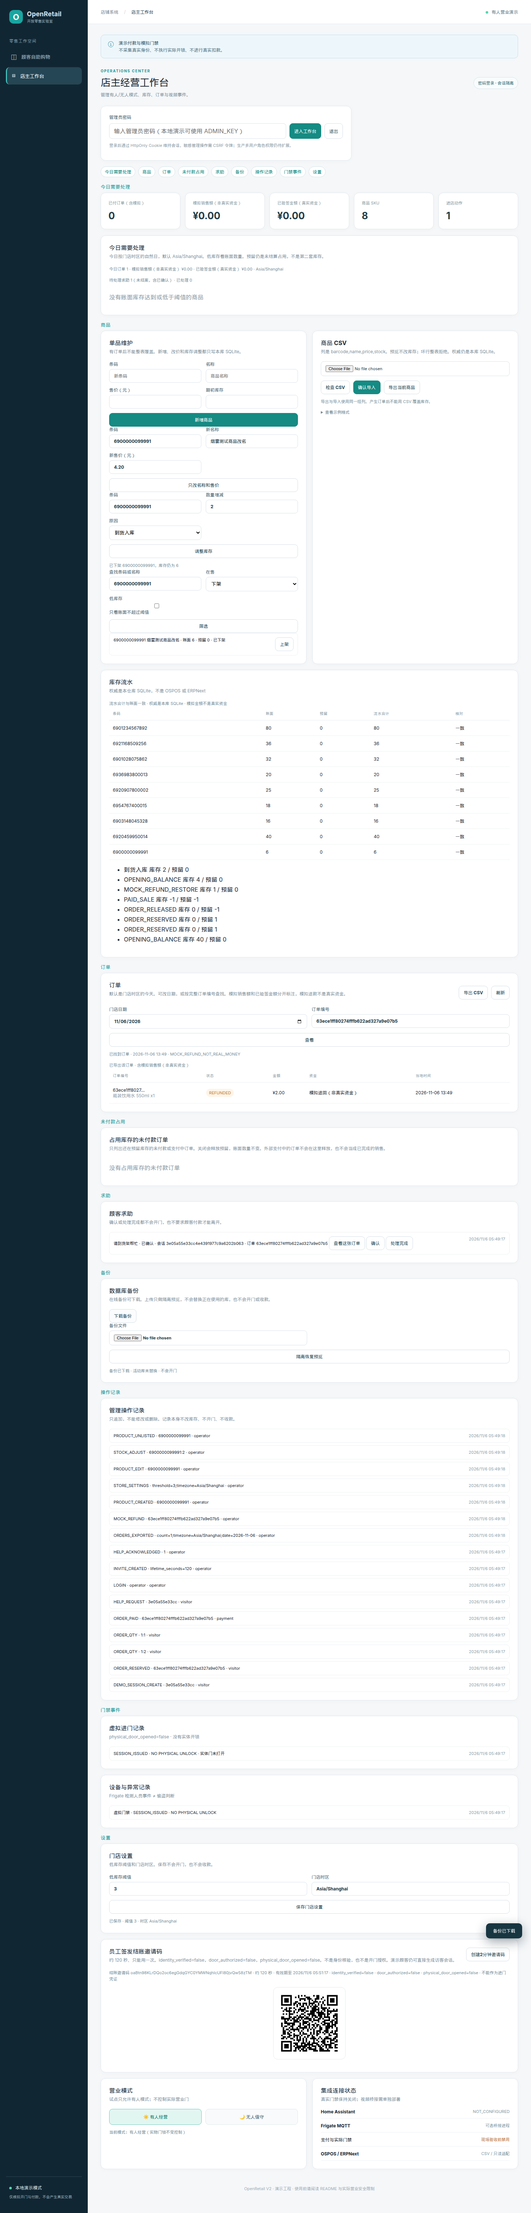
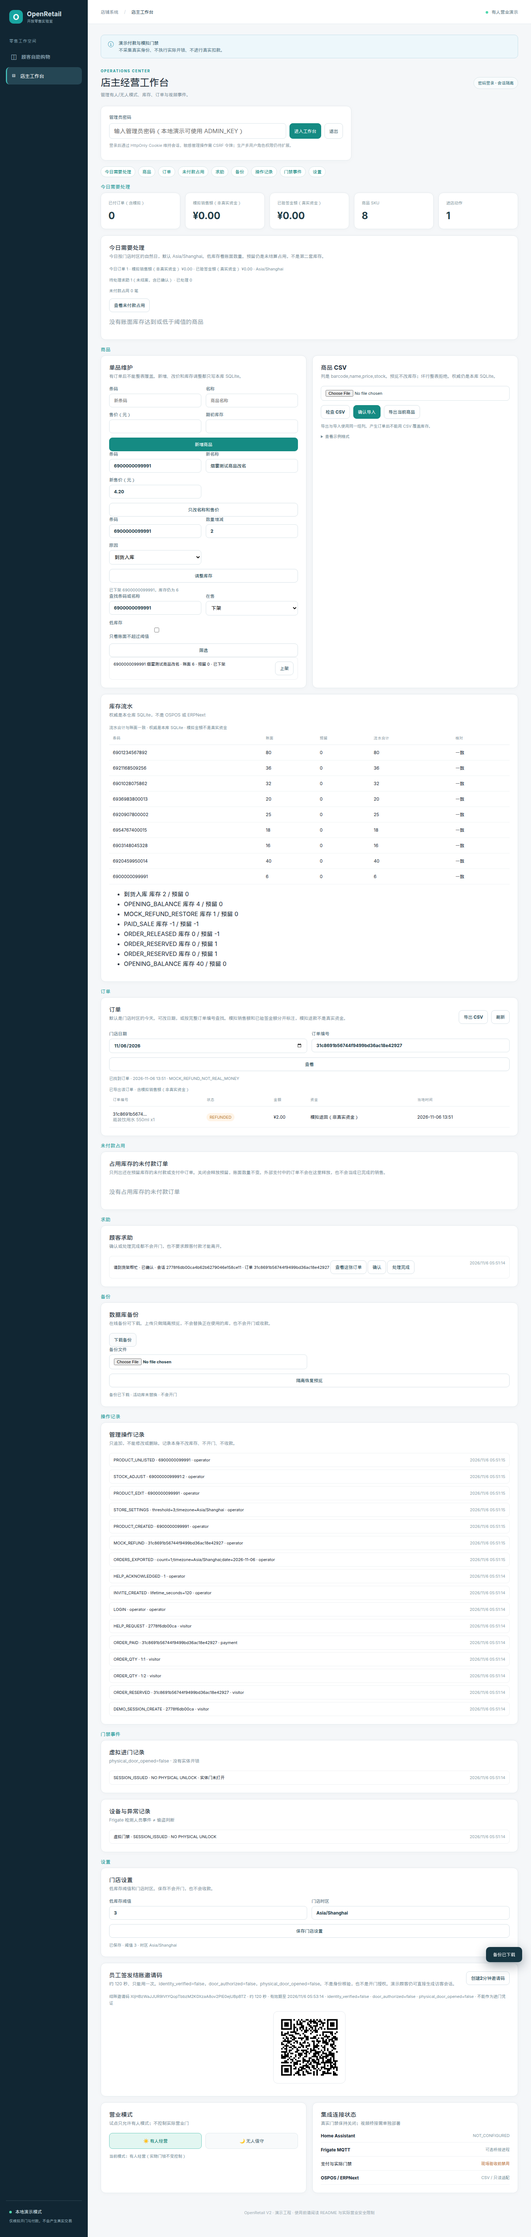
Show the unpaid holding count in today's summary.
The number uses the existing holding list, and the new control only scrolls to that section.

diff --git a/web/app.js b/web/app.js
@@ -51,7 +51,7 @@ async function resumeSavedSession(){if(!state.token)return;try{const status=awai
 async function createOrder(){if(!state.token)throw Error('先创建访客会话');const req={request_id:(crypto.randomUUID?.()||('demo-'+Date.now()+'-'+Math.random())),lines:[...state.cart].map(([product_id,quantity])=>({product_id,quantity}))};let r;try{r=await api('/api/orders',{method:'POST',body:req,guest:true})}catch(e){if((e.message||'').includes('已有待付款订单'))await refreshMine();throw e}rememberOrder(r);$('payment-qr').hidden=true;showPay(r);renderCart();await refreshMine();return r}
 async function confirmMock(){const r=await api('/api/payments/mock-confirm',{method:'POST',body:{order_id:state.orderId},guest:true});showPay(r);if(r.status==='PAID'){state.lastOrderId=r.id||state.orderId;state.cart.clear();state.orderId='';state.orderTotal=null;state.orderLines=null;$('cancel-order-btn').disabled=true;$('pay-btn').disabled=true;await loadProducts()}await refreshMine();return r}
 function fundLabel(order){if(order.status==='PAID'&&order.provider==='MOCK_NOT_REAL_MONEY')return '模拟销售额';if(Number(order.verified)===1)return '已验签真实资金';if(order.status==='REFUNDED'&&order.provider==='MOCK_NOT_REAL_MONEY')return '模拟退回';return '未收款'}
-async function adminRefresh(){if(!state.csrf)return;const [overview,orders,events,ledger,help,catalog,audit,holding]=await Promise.all([api('/api/admin/overview',{admin:true}),api(ordersQuery(),{admin:true}),api('/api/admin/events',{admin:true}),api('/api/admin/inventory-ledger',{admin:true}),api('/api/admin/help-requests',{admin:true}),api(catalogQuery(),{admin:true}),api('/api/admin/audit',{admin:true}),api('/api/admin/orders/holding',{admin:true})]);$('admin-body').hidden=false;$('m-orders').textContent=overview.paid_orders;$('m-sales').textContent=money(overview.simulated_revenue_cents);$('m-real').textContent=money(overview.verified_revenue_cents);$('today-summary').textContent='今日订单 '+overview.today_order_count+' · 模拟销售额（非真实资金） '+money(overview.today_simulated_revenue_cents)+' · 已验签金额（真实资金） '+money(overview.today_verified_revenue_cents)+' · '+overview.store_timezone;$('low-stock-threshold').value=overview.low_stock_threshold;$('store-timezone').value=overview.store_timezone;if(orders.local_date&&(!$('order-date').value||($('order-lookup').value||'').trim()))$('order-date').value=orders.local_date;const looked=($('order-lookup').value||'').trim();$('order-lookup-status').textContent=looked?(orders.orders&&orders.orders.length?('已找到订单 · '+orders.orders[0].local_time+' · '+(orders.orders[0].money_label==='MOCK_NOT_REAL_MONEY'?'模拟销售额（非真实资金）':(orders.orders[0].money_label||''))):'未找到订单'):('门店日期 '+(orders.local_date||'')+' · '+(orders.orders||[]).length+' 笔');$('admin-catalog').innerHTML=catalog.map(p=>`<div class="event"><span>${esc(p.barcode)} ${esc(p.name)} · 账面 ${p.stock} · 预留 ${p.reserved_stock} · ${p.active?'在售':'已下架'}</span><button class="btn secondary" type="button" data-listing-id="${p.id}" data-listing-barcode="${esc(p.barcode)}" data-listing-active="${p.active?0:1}">${p.active?'下架':'上架'}</button></div>`).join('')||'<p class="muted">没有商品</p>';$('audit-list').innerHTML=(audit.events||[]).map(e=>`<div class="event"><span>${esc(e.action)} · ${esc(e.detail)} · ${esc(e.actor)}</span><time>${time(e.created_at)}</time></div>`).join('')||'<p class="muted">没有操作记录</p>';$('help-attention').textContent='待处理求助 '+overview.help_needs_attention+'（未结案，含已确认） · 已处理 '+overview.help_resolved;$('low-stock-list').innerHTML=(overview.low_stock||[]).map(p=>`<div class="event"><span>${esc(p.barcode)} ${esc(p.name)} · 账面 ${p.stock} · 预留 ${p.reserved_stock} · 可售 ${p.available_stock}</span><button class="btn secondary" type="button" data-find-product="${esc(p.barcode)}">在商品里查找</button></div>`).join('')||'<p class="muted">没有账面库存达到或低于阈值的商品</p>';$('m-products').textContent=overview.products;$('m-entries').textContent=overview.door_events;$('mode-info').textContent='当前模式：'+(overview.mode==='UNATTENDED'?'无人值守':'有人经营')+'（实物门锁不受控制）';$('ha-state').textContent=overview.home_assistant.status;$('mode-staffed').classList.toggle('selected',overview.mode==='STAFFED');$('mode-unattended').classList.toggle('selected',overview.mode==='UNATTENDED');const todayOrders=orders.orders||[];$('order-table').innerHTML=todayOrders.map(o=>{const refund=o.status==='PAID'&&o.provider==='MOCK_NOT_REAL_MONEY'&&Number(o.verified)!==1?`<button class="btn secondary" type="button" data-mock-refund="${esc(o.id)}">模拟退款</button>`:'';const label=o.money_label==='MOCK_NOT_REAL_MONEY'?'模拟销售额（非真实资金）':o.money_label==='VERIFIED_REAL_MONEY'?'已验签金额（真实资金）':o.money_label==='MOCK_REFUND_NOT_REAL_MONEY'?'模拟退回（非真实资金）':fundLabel(o);return `<tr><td title="${esc(o.id)}">${esc(o.id.slice(0,12))}…<div class="muted">${esc(o.items||'')}</div></td><td><span class="status ${o.status==='PAID'?'paid':''}">${esc(o.status)}</span></td><td>${money(o.total_cents)}</td><td>${esc(label)}</td><td>${esc(o.local_time||'')}</td><td>${refund}</td></tr>`}).join('')||'<tr><td colspan="6">这一天没有订单</td></tr>';$('holding-list').innerHTML=(holding.orders||[]).map(o=>{const action=o.closable?`<button class="btn secondary" type="button" data-close-order="${esc(o.id)}">释放预留</button>`:`<span>${esc(o.note||'不能在这里释放')}</span>`;return `<div class="event"><span>${esc(o.id.slice(0,12))}… · ${esc(o.local_time||'')} · ${money(o.total_cents)} · ${esc(o.status)} · ${esc(o.items||'')} · 未付款 · 非真实资金${o.expires_local?' · 预留至 '+esc(o.expires_local):''}</span>${action}</div>`}).join('')||'<p class="muted">没有占用库存的未付款订单</p>';$('ledger-balance').textContent=(ledger.balanced?'流水合计与账面一致':'流水与账面不一致，需要人工核对')+' · 权威是本库 SQLite · 模拟金额不是真实资金';$('ledger-table').innerHTML=ledger.products.map(p=>`<tr><td>${esc(p.barcode)}</td><td>${p.stock}</td><td>${p.reserved_stock}</td><td>${p.ledger_stock}</td><td>${p.balanced?'一致':'不一致'}</td></tr>`).join('')||'<tr><td colspan="5">没有商品</td></tr>';$('ledger-moves').innerHTML=ledger.movements.slice(0,8).map(m=>`<li>${esc(m.reason)} 库存 ${m.stock_delta} / 预留 ${m.reserved_delta}</li>`).join('');const helpLabel={OPEN:'待处理',ACKNOWLEDGED:'已确认',RESOLVED:'已处理'};$('help-list').innerHTML=(help.requests||[]).map(h=>{const buttons=h.status==='RESOLVED'?'':`<button class="btn secondary" type="button" data-help-id="${esc(h.id)}" data-help-status="ACKNOWLEDGED">确认</button> <button class="btn secondary" type="button" data-help-id="${esc(h.id)}" data-help-status="RESOLVED">处理完成</button>`;const find=h.order_id?`<button class="btn secondary" type="button" data-find-order="${esc(h.order_id)}">查看这张订单</button>`:'';return `<div class="event"><span>${esc(h.message)} · ${esc(helpLabel[h.status]||h.status)} · 会话 ${esc(h.session_id||'无')} · 订单 ${esc(h.order_id||'无')} ${find} ${buttons}</span><time>${time(h.created_at)}</time></div>`}).join('')||'<p class="muted">没有求助</p>';$('door-lock-note').textContent=events.physical_door_opened===false?'physical_door_opened=false · 没有实体开锁':'门状态异常';$('door-event-list').innerHTML=(events.door||[]).map(e=>`<div class="event"><span>${esc(e.result)} · ${esc(e.detail)} · 实体门未打开</span><time>${time(e.created_at)}</time></div>`).join('')||'<p class="muted">没有虚拟进门记录</p>';const incident=events.frigate.map(e=>({name:'Frigate 人员事件 · '+e.camera+' · '+e.event_type,t:e.created_at})),doors=events.door.map(e=>({name:'虚拟门禁 · '+e.result+' · '+e.detail,t:e.created_at}));$('event-list').innerHTML=[...incident,...doors].sort((a,b)=>b.t-a.t).slice(0,15).map(e=>`<div class="event"><span>${esc(e.name)}</span><time>${time(e.t)}</time></div>`).join('')||'<p class="muted">暂无设备事件</p>'}
+async function adminRefresh(){if(!state.csrf)return;const [overview,orders,events,ledger,help,catalog,audit,holding]=await Promise.all([api('/api/admin/overview',{admin:true}),api(ordersQuery(),{admin:true}),api('/api/admin/events',{admin:true}),api('/api/admin/inventory-ledger',{admin:true}),api('/api/admin/help-requests',{admin:true}),api(catalogQuery(),{admin:true}),api('/api/admin/audit',{admin:true}),api('/api/admin/orders/holding',{admin:true})]);$('admin-body').hidden=false;$('m-orders').textContent=overview.paid_orders;$('m-sales').textContent=money(overview.simulated_revenue_cents);$('m-real').textContent=money(overview.verified_revenue_cents);$('today-summary').textContent='今日订单 '+overview.today_order_count+' · 模拟销售额（非真实资金） '+money(overview.today_simulated_revenue_cents)+' · 已验签金额（真实资金） '+money(overview.today_verified_revenue_cents)+' · '+overview.store_timezone;$('low-stock-threshold').value=overview.low_stock_threshold;$('store-timezone').value=overview.store_timezone;if(orders.local_date&&(!$('order-date').value||($('order-lookup').value||'').trim()))$('order-date').value=orders.local_date;const looked=($('order-lookup').value||'').trim();$('order-lookup-status').textContent=looked?(orders.orders&&orders.orders.length?('已找到订单 · '+orders.orders[0].local_time+' · '+(orders.orders[0].money_label==='MOCK_NOT_REAL_MONEY'?'模拟销售额（非真实资金）':(orders.orders[0].money_label||''))):'未找到订单'):('门店日期 '+(orders.local_date||'')+' · '+(orders.orders||[]).length+' 笔');$('admin-catalog').innerHTML=catalog.map(p=>`<div class="event"><span>${esc(p.barcode)} ${esc(p.name)} · 账面 ${p.stock} · 预留 ${p.reserved_stock} · ${p.active?'在售':'已下架'}</span><button class="btn secondary" type="button" data-listing-id="${p.id}" data-listing-barcode="${esc(p.barcode)}" data-listing-active="${p.active?0:1}">${p.active?'下架':'上架'}</button></div>`).join('')||'<p class="muted">没有商品</p>';$('audit-list').innerHTML=(audit.events||[]).map(e=>`<div class="event"><span>${esc(e.action)} · ${esc(e.detail)} · ${esc(e.actor)}</span><time>${time(e.created_at)}</time></div>`).join('')||'<p class="muted">没有操作记录</p>';$('help-attention').textContent='待处理求助 '+overview.help_needs_attention+'（未结案，含已确认） · 已处理 '+overview.help_resolved;$('holding-attention').textContent='未付款占用 '+(holding.orders||[]).length+' 笔';$('low-stock-list').innerHTML=(overview.low_stock||[]).map(p=>`<div class="event"><span>${esc(p.barcode)} ${esc(p.name)} · 账面 ${p.stock} · 预留 ${p.reserved_stock} · 可售 ${p.available_stock}</span><button class="btn secondary" type="button" data-find-product="${esc(p.barcode)}">在商品里查找</button></div>`).join('')||'<p class="muted">没有账面库存达到或低于阈值的商品</p>';$('m-products').textContent=overview.products;$('m-entries').textContent=overview.door_events;$('mode-info').textContent='当前模式：'+(overview.mode==='UNATTENDED'?'无人值守':'有人经营')+'（实物门锁不受控制）';$('ha-state').textContent=overview.home_assistant.status;$('mode-staffed').classList.toggle('selected',overview.mode==='STAFFED');$('mode-unattended').classList.toggle('selected',overview.mode==='UNATTENDED');const todayOrders=orders.orders||[];$('order-table').innerHTML=todayOrders.map(o=>{const refund=o.status==='PAID'&&o.provider==='MOCK_NOT_REAL_MONEY'&&Number(o.verified)!==1?`<button class="btn secondary" type="button" data-mock-refund="${esc(o.id)}">模拟退款</button>`:'';const label=o.money_label==='MOCK_NOT_REAL_MONEY'?'模拟销售额（非真实资金）':o.money_label==='VERIFIED_REAL_MONEY'?'已验签金额（真实资金）':o.money_label==='MOCK_REFUND_NOT_REAL_MONEY'?'模拟退回（非真实资金）':fundLabel(o);return `<tr><td title="${esc(o.id)}">${esc(o.id.slice(0,12))}…<div class="muted">${esc(o.items||'')}</div></td><td><span class="status ${o.status==='PAID'?'paid':''}">${esc(o.status)}</span></td><td>${money(o.total_cents)}</td><td>${esc(label)}</td><td>${esc(o.local_time||'')}</td><td>${refund}</td></tr>`}).join('')||'<tr><td colspan="6">这一天没有订单</td></tr>';$('holding-list').innerHTML=(holding.orders||[]).map(o=>{const action=o.closable?`<button class="btn secondary" type="button" data-close-order="${esc(o.id)}">释放预留</button>`:`<span>${esc(o.note||'不能在这里释放')}</span>`;return `<div class="event"><span>${esc(o.id.slice(0,12))}… · ${esc(o.local_time||'')} · ${money(o.total_cents)} · ${esc(o.status)} · ${esc(o.items||'')} · 未付款 · 非真实资金${o.expires_local?' · 预留至 '+esc(o.expires_local):''}</span>${action}</div>`}).join('')||'<p class="muted">没有占用库存的未付款订单</p>';$('ledger-balance').textContent=(ledger.balanced?'流水合计与账面一致':'流水与账面不一致，需要人工核对')+' · 权威是本库 SQLite · 模拟金额不是真实资金';$('ledger-table').innerHTML=ledger.products.map(p=>`<tr><td>${esc(p.barcode)}</td><td>${p.stock}</td><td>${p.reserved_stock}</td><td>${p.ledger_stock}</td><td>${p.balanced?'一致':'不一致'}</td></tr>`).join('')||'<tr><td colspan="5">没有商品</td></tr>';$('ledger-moves').innerHTML=ledger.movements.slice(0,8).map(m=>`<li>${esc(m.reason)} 库存 ${m.stock_delta} / 预留 ${m.reserved_delta}</li>`).join('');const helpLabel={OPEN:'待处理',ACKNOWLEDGED:'已确认',RESOLVED:'已处理'};$('help-list').innerHTML=(help.requests||[]).map(h=>{const buttons=h.status==='RESOLVED'?'':`<button class="btn secondary" type="button" data-help-id="${esc(h.id)}" data-help-status="ACKNOWLEDGED">确认</button> <button class="btn secondary" type="button" data-help-id="${esc(h.id)}" data-help-status="RESOLVED">处理完成</button>`;const find=h.order_id?`<button class="btn secondary" type="button" data-find-order="${esc(h.order_id)}">查看这张订单</button>`:'';return `<div class="event"><span>${esc(h.message)} · ${esc(helpLabel[h.status]||h.status)} · 会话 ${esc(h.session_id||'无')} · 订单 ${esc(h.order_id||'无')} ${find} ${buttons}</span><time>${time(h.created_at)}</time></div>`}).join('')||'<p class="muted">没有求助</p>';$('door-lock-note').textContent=events.physical_door_opened===false?'physical_door_opened=false · 没有实体开锁':'门状态异常';$('door-event-list').innerHTML=(events.door||[]).map(e=>`<div class="event"><span>${esc(e.result)} · ${esc(e.detail)} · 实体门未打开</span><time>${time(e.created_at)}</time></div>`).join('')||'<p class="muted">没有虚拟进门记录</p>';const incident=events.frigate.map(e=>({name:'Frigate 人员事件 · '+e.camera+' · '+e.event_type,t:e.created_at})),doors=events.door.map(e=>({name:'虚拟门禁 · '+e.result+' · '+e.detail,t:e.created_at}));$('event-list').innerHTML=[...incident,...doors].sort((a,b)=>b.t-a.t).slice(0,15).map(e=>`<div class="event"><span>${esc(e.name)}</span><time>${time(e.t)}</time></div>`).join('')||'<p class="muted">暂无设备事件</p>'}
 async function run(fn){try{await fn()}catch(e){toast(e.message);console.error(e)}}
 document.addEventListener('click',e=>{const findProduct=e.target.closest('[data-find-product]');if(findProduct){run(async()=>{$('catalog-query').value=findProduct.dataset.findProduct;$('catalog-listing').value='all';$('catalog-low-stock').checked=false;const section=document.getElementById('admin-products');if(section)section.scrollIntoView({block:'start'});await adminRefresh()});return}const findOrder=e.target.closest('[data-find-order]');if(findOrder){run(async()=>{ $('order-lookup').value=findOrder.dataset.findOrder;const section=document.getElementById('admin-orders');if(section)section.scrollIntoView({block:'start'});await adminRefresh();if(!$('order-lookup-status').textContent.includes('已找到订单'))throw Error('没有找到这张订单')});return}const closeHold=e.target.closest('[data-close-order]');if(closeHold){run(async()=>{const r=await api('/api/admin/orders/'+closeHold.dataset.closeOrder+'/mock-close',{admin:true,method:'POST'});if(r.real_money||r.remote_call||r.physical_door_opened||r.stock_changed)throw Error('释放预留不应扣账面、收款或开门');toast(r.outcome==='IDEMPOTENT'?'订单已经关闭':'已释放预留，账面库存未扣');await adminRefresh()});return}const refund=e.target.closest('[data-mock-refund]');if(refund){run(async()=>{const r=await api('/api/admin/orders/'+refund.dataset.mockRefund+'/mock-refund',{admin:true,method:'POST'});toast(r.real_money?'异常：模拟退款不应产生真实资金':'模拟退款已回补库存，不是微信退款');await adminRefresh();await loadProducts()});return}const listing=e.target.closest('[data-listing-id]');if(listing){run(async()=>{const r=await api('/api/admin/products/'+listing.dataset.listingId+'/listing',{admin:true,method:'POST',body:{active:listing.dataset.listingActive==='1'}});if(r.stock_changed||r.physical_door_opened||r.real_door_enabled)throw Error('上下架不应改库存或开门');$('product-status').textContent=(r.active?'已上架':'已下架')+' '+r.barcode+'，库存仍为 '+r.stock;await adminRefresh();await loadProducts();toast(r.active?'已上架':'已下架')});return}const helpAction=e.target.closest('[data-help-status]');if(helpAction){run(async()=>{const r=await api('/api/admin/help-requests/'+helpAction.dataset.helpId+'/status',{admin:true,method:'POST',body:{status:helpAction.dataset.helpStatus}});if(r.physical_door_opened||r.payment_required_to_leave||r.door_authorized)throw Error('处理求助不应开门或要求付款');toast(r.status==='RESOLVED'?'求助已处理，门未打开':'已确认求助，门未打开');await adminRefresh()});return}const nav=e.target.closest('[data-panel]');if(nav){document.querySelectorAll('.nav').forEach(n=>n.classList.toggle('active',n===nav));['shop','admin'].forEach(p=>$('panel-'+p).hidden=p!==nav.dataset.panel);$('current-title').textContent=nav.dataset.panel==='shop'?'顾客自助购物':'店主工作台';if(nav.dataset.panel==='admin')run(adminRefresh)}const addButton=e.target.closest('[data-add]');if(addButton){const id=Number(addButton.dataset.add);if(state.orderId){const current=state.cart.get(id)||0;if(!current){toast('已有待付款订单，请先完成付款或取消订单');return}run(()=>changeOrderQty(id,current+1));return}add(id);return}const minus=e.target.closest('[data-minus]');if(minus){const id=Number(minus.dataset.minus);const current=state.cart.get(id)||0;if(state.orderId){run(()=>changeOrderQty(id,Math.max(0,current-1)));return}if(current<=1)state.cart.delete(id);else state.cart.set(id,current-1);$('pay-btn').disabled=true;renderCart()}});
 $('entry-btn').onclick=()=>run(async()=>{const s=await api('/api/entry',{method:'POST'});state.token=s.guest_token;sessionStorage.setItem('retail_guest',state.token);$('entry-result').textContent='访客会话创建成功（未进行身份核验）；有效期至 '+time(s.expires_at);$('door-btn').disabled=false;await showEntryStatus();renderCart();toast('演示访客会话已创建');armBarcodeField()});
@@ -128,6 +128,7 @@ function ordersQuery(){const params=new URLSearchParams();const id=($('order-loo
 function catalogQuery(){const params=new URLSearchParams();const q=($('catalog-query').value||'').trim();const listing=$('catalog-listing').value||'all';if(q)params.set('q',q);if(listing!=='all')params.set('listing',listing);if($('catalog-low-stock').checked)params.set('low_stock','1');const text=params.toString();return '/api/admin/products'+(text?'?'+text:'')}
 async function adminProduct(barcode){const rows=await api('/api/admin/products',{admin:true});const found=rows.find(item=>item.barcode===barcode);if(!found)throw Error('找不到条码 '+barcode);return found}
 $('catalog-filter').onsubmit=e=>{e.preventDefault();run(async()=>{await adminRefresh();toast('已按条码或名称筛选，库存未改')})};
+$('jump-holding').onclick=()=>{const section=document.getElementById('admin-holding');if(section)section.scrollIntoView({block:'start'})};
 $('product-form').onsubmit=e=>{e.preventDefault();run(async()=>{const f=new FormData(e.target);const r=await api('/api/admin/products',{admin:true,method:'POST',body:{barcode:String(f.get('barcode')).trim(),name:String(f.get('name')).trim(),price_cents:Math.round(Number(f.get('price'))*100),stock:Number(f.get('stock')),active:true}});$('product-status').textContent='已新增 '+r.barcode+'，期初库存 '+r.stock+' 已入账';e.target.reset();await adminRefresh();await loadProducts();toast('商品已新增')})};
 $('edit-form').onsubmit=e=>{e.preventDefault();run(async()=>{const f=new FormData(e.target);const before=await adminProduct(String(f.get('barcode')).trim());const r=await api('/api/admin/products/'+before.id,{admin:true,method:'PATCH',body:{name:String(f.get('name')).trim(),price_cents:Math.round(Number(f.get('price'))*100)}});if(r.stock!==before.stock||r.stock_changed)throw Error('改价不应改库存');$('product-status').textContent='已改名称和售价，库存仍为 '+r.stock;await loadProducts();toast('名称和售价已更新')})};
 $('adjust-form').onsubmit=e=>{e.preventDefault();run(async()=>{const f=new FormData(e.target);const product=await adminProduct(String(f.get('barcode')).trim());const r=await api('/api/admin/products/'+product.id+'/adjust-stock',{admin:true,method:'POST',body:{quantity_delta:Number(f.get('delta')),reason:String(f.get('reason'))}});$('product-status').textContent='库存已调整为 '+r.stock+'，流水已记录';await adminRefresh();await loadProducts();toast('库存已调整')})};

diff --git a/web/index.html b/web/index.html
@@ -56,7 +56,7 @@
         <section id="admin-today" class="admin-section">
           <h2 class="admin-section-title">今日需要处理</h2>
           <div class="metrics"><div class="metric"><span>已付订单（含模拟）</span><strong id="m-orders">—</strong></div><div class="metric"><span>模拟销售额（非真实资金）</span><strong id="m-sales">—</strong></div><div class="metric"><span>已验签金额（真实资金）</span><strong id="m-real">—</strong></div><div class="metric"><span>商品 SKU</span><strong id="m-products">—</strong></div><div class="metric"><span>进店动作</span><strong id="m-entries">—</strong></div></div>
-          <article class="surface" id="ops-summary"><div class="surface-heading"><div><h2>今日需要处理</h2><p>今日按门店时区的自然日，默认 Asia/Shanghai。低库存看账面数量。预留仍是未结算占用，不是第二套库存。</p></div></div><p id="today-summary" class="inline-note">登录后显示</p><p id="help-attention" class="inline-note">求助未结案：—</p><div id="low-stock-list" class="events"><p class="muted">没有达到阈值的商品</p></div></article>
+          <article class="surface" id="ops-summary"><div class="surface-heading"><div><h2>今日需要处理</h2><p>今日按门店时区的自然日，默认 Asia/Shanghai。低库存看账面数量。预留仍是未结算占用，不是第二套库存。</p></div></div><p id="today-summary" class="inline-note">登录后显示</p><p id="help-attention" class="inline-note">求助未结案：—</p><p id="holding-attention" class="inline-note">未付款占用 —</p><button type="button" id="jump-holding" class="btn secondary">查看未付款占用</button><div id="low-stock-list" class="events"><p class="muted">没有达到阈值的商品</p></div></article>
         </section>
         <section id="admin-products" class="admin-section">
           <h2 class="admin-section-title">商品</h2>

diff --git a/tests/test_holding_orders.py b/tests/test_holding_orders.py
@@ -69,3 +69,37 @@ def test_staff_can_release_an_unpaid_hold_without_touching_on_hand(client, admin
     assert blocked.status_code==409
     assert levels(client,made['id'])[:2]==(4,1)
     assert client.get('/api/admin/overview',headers=admin_header).json()['verified_revenue_cents']==0
+
+
+def test_holding_count_follows_the_same_unpaid_orders(client, admin_header):
+    assert client.get('/api/admin/orders/holding').status_code==401
+    assert client.get('/api/admin/overview').status_code==401
+    guest=visitor(client)
+    product=client.get('/api/products').json()[0]
+    created=client.post('/api/orders',headers=guest,json={'request_id':'holding-count-0001',
+        'lines':[{'product_id':product['id'],'quantity':1}]}).json()
+    with client.app.state.db.connect() as conn:
+        stock=conn.execute('SELECT stock,reserved_stock FROM products WHERE id=?',(product['id'],)).fetchone()
+        moves=conn.execute('SELECT COUNT(*) n FROM stock_movements').fetchone()['n']
+    listed=client.get('/api/admin/orders/holding',headers=admin_header).json()
+    ids={row['id'] for row in listed['orders']}
+    assert created['id'] in ids and len(listed['orders'])>=1
+    assert client.get('/api/admin/inventory-ledger',headers=admin_header).json()['balanced'] is True
+    with client.app.state.db.connect() as conn:
+        now=conn.execute('SELECT stock,reserved_stock FROM products WHERE id=?',(product['id'],)).fetchone()
+        assert now['stock']==stock['stock'] and now['reserved_stock']==stock['reserved_stock']
+        assert conn.execute('SELECT COUNT(*) n FROM stock_movements').fetchone()['n']==moves
+    paid=client.post('/api/payments/mock-confirm',headers=guest,json={'order_id':created['id']})
+    assert paid.status_code==200 and paid.json()['real_money'] is False and paid.json()['payment_kind']=='MOCK_NOT_REAL_MONEY'
+    after_pay={row['id'] for row in client.get('/api/admin/orders/holding',headers=admin_header).json()['orders']}
+    assert created['id'] not in after_pay
+    other=client.post('/api/orders',headers=guest,json={'request_id':'holding-count-0002',
+        'lines':[{'product_id':product['id'],'quantity':1}]}).json()
+    assert other['id'] in {row['id'] for row in client.get('/api/admin/orders/holding',headers=admin_header).json()['orders']}
+    cancelled=client.post('/api/orders/'+other['id']+'/cancel',headers=guest)
+    assert cancelled.status_code==200
+    assert other['id'] not in {row['id'] for row in client.get('/api/admin/orders/holding',headers=admin_header).json()['orders']}
+    page=__import__('pathlib').Path('web/index.html').read_text(encoding='utf-8')
+    script=__import__('pathlib').Path('web/app.js').read_text(encoding='utf-8')
+    assert 'id="jump-holding"' in page and '查看未付款占用' in page
+    assert '没有占用库存的未付款订单' in script

diff --git a/scripts/ui_bridge_smoke.py b/scripts/ui_bridge_smoke.py
@@ -79,6 +79,9 @@ with TestClient(create_app(cfg)) as backend,sync_playwright() as pw:
  p.locator('#admin-login').click()
  p.wait_for_function("!document.querySelector('#admin-body').hidden")
  p.wait_for_function("document.querySelector('#holding-list').textContent.includes('没有占用库存的未付款订单')")
+ p.wait_for_function("document.querySelector('#holding-attention').textContent.includes('未付款占用 0 笔')")
+ p.locator('#jump-holding').click()
+ p.wait_for_function("document.querySelector('#holding-list').textContent.includes('没有占用库存的未付款订单')")
  print('admin:',p.locator('#m-orders').inner_text(),'real:',p.locator('#m-real').inner_text(),'errors:',errors)
  p.wait_for_function("document.querySelector('#help-list').textContent.includes('请到货架帮忙') && document.querySelector('[data-find-order]')")
  p.locator('[data-find-order]').click()

diff --git a/docs/PROJECT_STATUS.md b/docs/PROJECT_STATUS.md
@@ -4,6 +4,17 @@
 
 完全无人值守经营仍是 **NOT_APPROVED**。示例配置里的真实支付和实体开锁都是关闭的。
 
+## 本增量（今日摘要里的未付款占用）
+
+已在代码和测试里做到，并在本机复跑：
+
+- 「今日需要处理」显示「未付款占用 N 笔」，数字和原来的占用列表是同一批 `PENDING` / `PAYMENT_PENDING` 订单。没有未付款占用时是「未付款占用 0 笔」，占用区仍写「没有占用库存的未付款订单」。
+- 「查看未付款占用」只滚动到已有的占用区，不关单、不改库存、不开门、不调用支付机构。读取这个数字不写流水，也不提前让预留到期。
+
+`/tmp/openretail-venv/bin/python -m pytest -q`（工作目录 `/workspace`，Python 3.12.3）：**75 passed，1 warning，7.85s，退出码 0**。警告仍是 Starlette 的 `httpx` TestClient 弃用提示。75 = 上一轮 74 + 本增量 1。
+
+`scripts/ui_bridge_smoke.py` 在去掉密钥环境变量后退出码 0。顾客没有领取邀请码，仍用「生成访客会话」完成 ¥2.00 模拟支付，并含「模拟支付成功 · 非真实资金 · 已扣库存」。进入管理页后，「今日需要处理」含「未付款占用 0 笔」，占用区含「没有占用库存的未付款订单」，并点了「查看未付款占用」，没有关单。390 宽 `scrollWidth` 390，1440 宽 `scrollWidth` 1440，`pageerror` 为空。这仍是 Chrome 到 TestClient 的桥，不是真机，也不是真实收款。
+
 ## 本增量（领取邀请码写入操作记录）
 
 已在代码和测试里做到，并在本机复跑：
